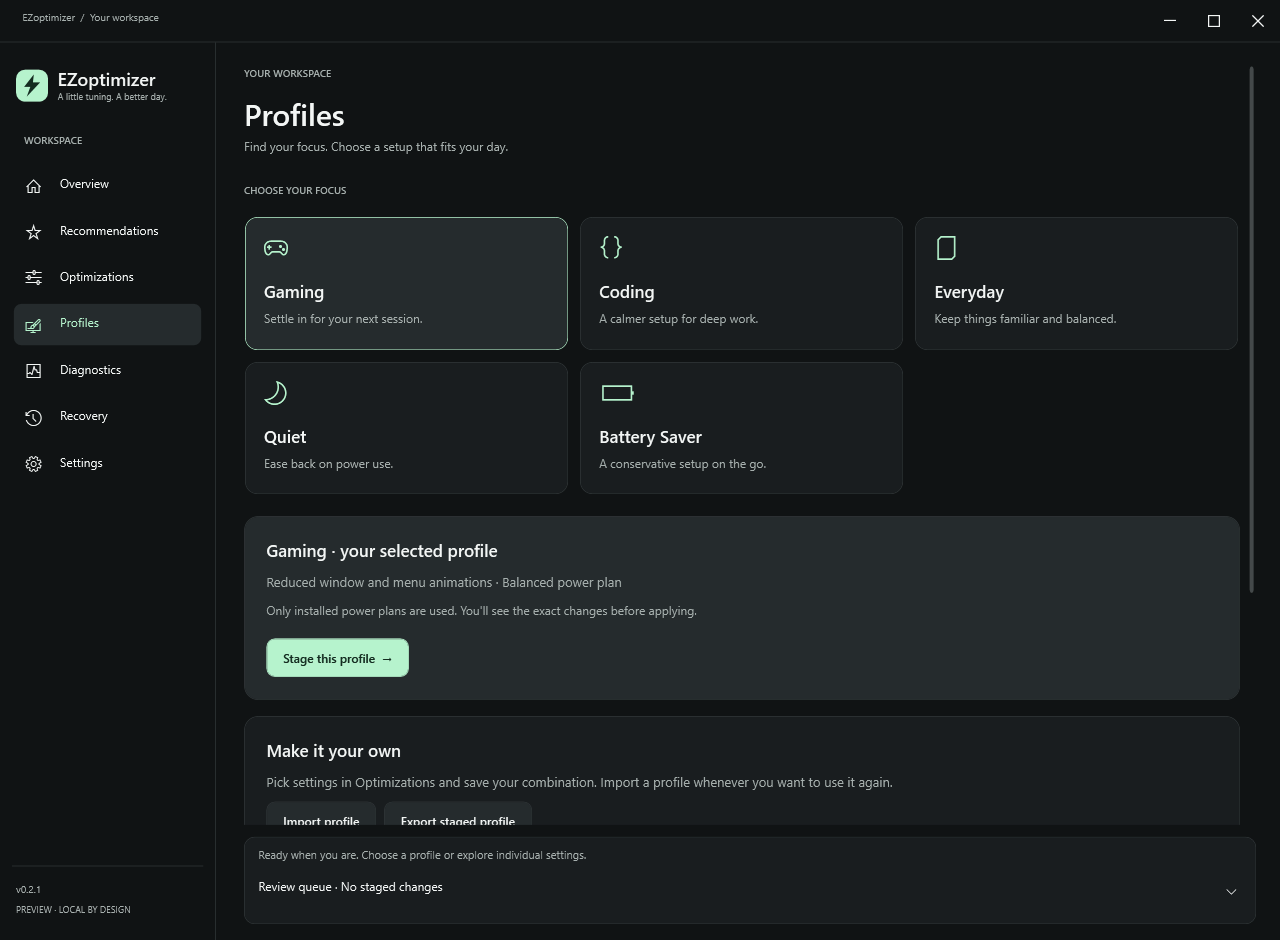
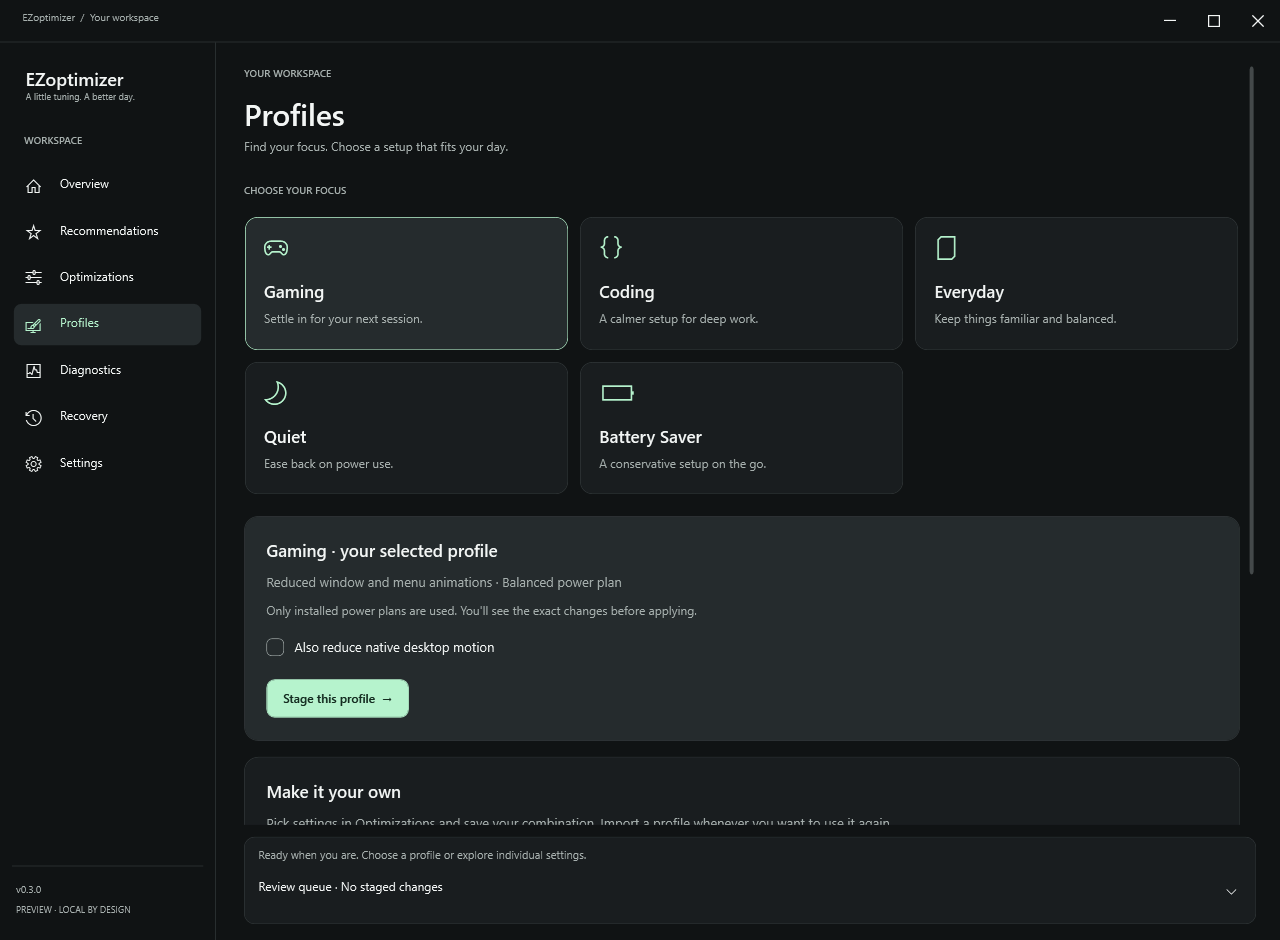
Document expanded features and validation limits

Changed region(s): [[0.1875, 0.6787, 0.9688, 0.8947], [0.0, 0.0617, 0.125, 0.1234], [0.3125, 0.8638, 0.4062, 0.8947]]

diff --git a/docs/FEATURES.md b/docs/FEATURES.md
@@ -2,8 +2,8 @@
 
 | Area | Implemented control | Read-only diagnostics / guidance | Deferred and prerequisite |
 |---|---|---|---|
-| System | Two animation preferences, installed power plan, session keep-awake | CPU/RAM/free space, OS/CPU/GPU driver/storage/battery, startup inventory | Startup toggles: exact mechanism/absence/type/view capture and VM testing |
-| Gaming | Reviewed opt-in session with process identity and exact undo | Game Mode, captures, graphics and display Settings shortcuts | FPS/frame-time integration and real game exit tests in disposable environments |
+| System | Ten visual/dragging preferences, four numeric input preferences, installed power plan, session keep-awake | CPU/RAM/free space, OS/CPU/GPU driver/storage/battery, startup inventory | Startup toggles: exact mechanism/absence/type/view capture and VM testing |
+| Gaming | Reviewed opt-in session with process identity and exact undo | Display/driver/power readiness, frame-time CSV import; Game Mode, captures, graphics and display Settings shortcuts | Live capture integration and real game exit tests in disposable environments |
 | Profiles | Five presets, desired-only custom import/export, persistent queue | Missing-plan explanation and machine-specific preview | Future schema migration when another profile schema exists; v1 is the first custom-profile format |
 | Privacy | No direct Windows privacy mutation | Advertising/personalization and camera-permission shortcuts | Additional controls require stable documented policy-aware interfaces |
 | Debloat | No app/package removal | User/machine uninstall-registry inventory; Windows uninstall workflow | Complete packaged/provisioned/framework classification, removal and explicit data-loss contract |
@@ -11,7 +11,7 @@
 | Maintenance | No permanent deletion | Windows Storage Sense and Update shortcuts | Allowlisted app-owned cache cleanup with reparse safety and honest recovery |
 | Recovery | Durable schema-2 journals, v0.1 migration, verification, compensation, cancellation, conflict retry | Recovery-only startup; provider inspection; reviewed System Restore helper | Real restore creation/frequency/denial VM testing; quarantine-adjudication tooling |
 | Updates | Manual fixed-repository stable/preview checks | Official release page, offline/rate-limit/interruption states | Automatic executable replacement requires publisher signing and trusted signed metadata |
-| Measurements | Timestamped actual samples and local two-window comparison | Benchmark repeat guidance; CPU/RAM limitations | Manual benchmark import and workload-completion instrumentation |
+| Measurements | Timestamped actual samples and local two-window comparison | Benchmark repeat guidance; CPU/RAM limitations | Live capture and workload-completion instrumentation |
 | Accessibility | Focus borders, native control peers/names, scrolling, high contrast resources and live status announcements | Four-theme/three-scale layout smoke and actual WPF renders | Full Narrator, actual OS scaling/high contrast, keyboard traversal and long-localized text audit |
 
 All shortcuts are labeled as such and do not masquerade as implemented optimizations. No speculative tweak count, performance score or guaranteed gain is shown. Unknown battery/media/capability values remain unknown. OEM/Modern Standby availability is handled through existing installed plans rather than fabricating missing plans. Managed restrictions block execution rather than being bypassed.
@@ -24,3 +24,15 @@ All shortcuts are labeled as such and do not masquerade as implemented optimizat
 4. Added conservative/custom profiles, cached hardware recommendations and supplementary restore-point integration.
 5. Connected system/gaming/privacy/debloat/network/maintenance controls, inventories and clearly labeled shortcuts.
 6. Added logs, reviewed exports, manual update safety, 39 default checks, portable packaging, layout renders and measured overhead. Remaining acceptance gaps are listed in VALIDATION.md rather than treated as passed.
+
+## v0.3.0 additions
+
+Frame-time import accepts `FrameTimeMs` or `MsBetweenPresents`, one process/swap chain, 30–200,000 positive samples, and at most 8 MB. Average FPS is 1000 / mean frame time. The 1% low is 1000 / mean of the slowest ceil(1%) frame times. Percentiles use nearest rank. CSVs are kept local. Matching workload labels do not prove matching experimental conditions.
+
+Coding inspection reads a selected local folder with 25,000-entry, eight-level and three-second traversal limits. Linked entries are skipped. Reported logical sizes in common dependency/output folders are not a cleanup recommendation; no deletion is performed.
+
+Native preferences use [documented Windows interfaces](https://learn.microsoft.com/en-us/windows/win32/api/winuser/nf-winuser-systemparametersinfow). Input preferences affect desktop behavior, not game polling rates or raw-input latency. Modern apps may ignore classic effects.
+
+### Feature comparison scope
+
+[EXM](https://support.exmtweaks.com/en/using-exm) and [BoosterX](https://boosterx.org/en/howitworks/) describe profiles, Windows settings, gaming tools and diagnostics. EZoptimizer covers these categories with the implemented features above; this is not a claim of complete feature parity. Firmware changes, security disabling, blanket service changes, undocumented registry tweaks, arbitrary scripts, package removal and irreversible cleanup are excluded. Source code and UI are independently implemented.

diff --git a/docs/VALIDATION.md b/docs/VALIDATION.md
@@ -1,3 +1,7 @@
+# v0.3.0 validation update
+
+51 default regression checks pass, including every native preference through simulated exact undo, integer ranges, external-change preservation, CSV calculations and malformed input, and read-only project inspection. Release build has zero warnings/errors. Native read-only inventory, readiness, profile staging and preview pass. The 84 page/theme/scale layout combinations pass. Native preference writes were not exercised on the everyday host; Windows 11 and disposable-VM mutation coverage remain open. Earlier overhead measurements below are historical and do not measure this expanded build.
+
 # Validation and compatibility
 
 ## Local evidence · 2026-10-03
